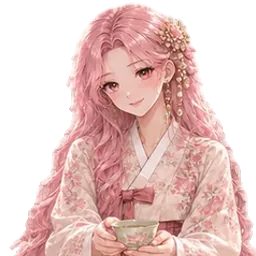
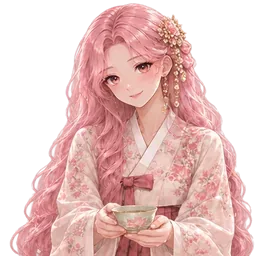
Cut the resting Yeoni portrait from the first welcome frame

diff --git a/docs/design/consultation-room-media.md b/docs/design/consultation-room-media.md
@@ -109,7 +109,7 @@ Keep the supplied official consultation illustration. The same woman with dark h
 
 ## 인간형 연이 스프라이트와 사주 LLM 상담
 
-꿀꿀운세 홈과 운명 찻집 도입부는 한복 원본 `/images/master-profiles/yeoni-love-portrait.webp`을 참조해 따로 그린 24개 포즈를 쓴다(2026-11-25 codex-image로 다시 그림). `/images/fortune-tea-house/hanbok-yeoni/`의 welcome, speak, offer, listen 시트는 각각 가로 여섯 칸(1536×256px)이며, 한 칸은 256×256px이다. 네 시트와 `portrait.webp`는 같은 인물 크기·발밑 기준선으로 정규화했으므로 초상화만 따로 바꾸지 않는다. 행동이 바뀔 때 인물 크기가 튀지 않게 하려면 새 시트도 같은 기준으로 맞춘다.
+꿀꿀운세 홈과 운명 찻집 도입부는 한복 원본 `/images/master-profiles/yeoni-love-portrait.webp`을 참조해 따로 그린 24개 포즈를 쓴다(2026-11-25 codex-image로 다시 그림). `/images/fortune-tea-house/hanbok-yeoni/`의 welcome, speak, offer, listen 시트는 각각 가로 여섯 칸(1536×256px)이며, 한 칸은 256×256px이다. 네 시트는 같은 인물 크기·기준선으로 정규화했고, 쉬는 초상 `portrait.webp`는 welcome 시트의 첫 칸을 그대로 잘라 쓴다(행동 시작·끝에서 크기·위치가 튀지 않게). 초상화만 따로 바꾸지 않는다. 홈 선반의 그림 상자는 113×136px(5:6)이지만 초상은 정사각형으로 가운데 놓이므로 시트도 `600% auto`·세로 50%로 정사각형 칸을 유지한다. 행동이 바뀔 때 인물 크기가 튀지 않게 하려면 새 시트도 같은 기준으로 맞춘다.
 
 홈(`js/core/home-yeoni.mjs`)은 선택한 행동의 시트만 읽고, 칸 수를 시트 비율(가로÷세로, 기본 6)로 계산한다. welcome·listen·speak는 0→5 칸을 320ms씩, offer는 0→5→0 칸을 200ms씩 보여 주며, 두 겹 레이어를 120ms 불투명도 교차 페이드로 바꿔 끊김을 줄인다. 동작 줄이기 설정·모션 토글·데이터 절약 연결에서는 재생하지 않는다. 운명 찻집(`YeoniTalkingPortrait.module.css`)은 같은 시트를 600% 배경과 CSS 키프레임으로 재생하며 offer만 왕복한다.
 
